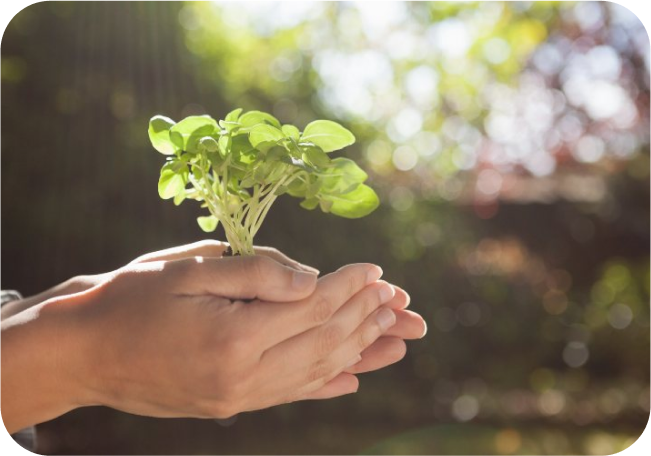
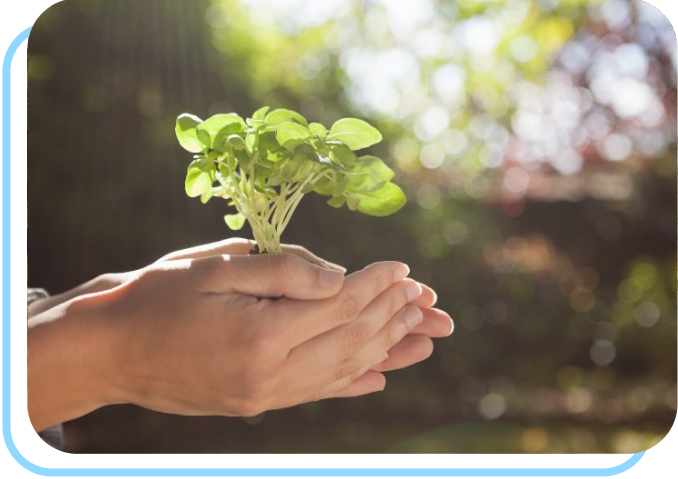
clean code and about-us completed

diff --git a/src/components/footer/Footer.js b/src/components/footer/Footer.js
@@ -14,7 +14,7 @@ function Footer() {
         <div className="text-white py-4">
           <div className="row">
           <div className="col-sm">
-          <img src={logo} style={{ width: "80px" }} />
+          <img src={logo} alt="logo" style={{ width: "80px" }} />
             </div>
             <div className="col-sm">
               <li className='font-weight-bold mb-2' a href="#" >ACERCA DE</li>
@@ -24,21 +24,22 @@ function Footer() {
             </div>
             <div className="col-sm">
               <li className='font-weight-bold mb-2'>INFORMACIÓN</li>
-              <a href="preguntas"><li>Preguntas frecuentes</li></a>
+              <a href="/preguntas-frecuentes"><li>Preguntas frecuentes</li></a>
               <a href="sitio"><li>¿Dónde encontrarnos? </li></a>
               <a href="contacto"><li>Contacto </li></a>
               <a href="comprar"><li>¿Cómo comprar? </li></a>
             </div>
             <div className="col-sm">
               <li className='font-weight-bold mb-2'>MEDIOS DE PAGO</li>
-              <img src={bancolombia} style={{ width: "130px", marginLeft: "10px"}} />
-              <img src={daviplata} style={{ width: "140px", marginTop: '10px' , marginLeft: "10px"}} />
-              <img src={mercado} style={{ width: "140px", marginTop: '10px' }} />
+              <img src={bancolombia} alt= "bancolombia" style={{ width: "130px", marginLeft: "10px"}} />
+              <img src={daviplata} alt= "daviplata" style={{ width: "140px", marginTop: '10px' , marginLeft: "10px"}} />
+              <img src={mercado} alt= "mercadop" style={{ width: "140px", marginTop: '10px' }} />
             </div>
             <div className="col-sm">
               <li className='font-weight-bold mb-2'>SIGUENOS</li>
-              <a href="facebook" className="bi-facebook" style={{ color: "blue", fontSize: "48px" }}></a>
-              <a href="instagram"><li><img src={insta} style={{ width: "50px" }} /></li></a>
+              <a href="https://www.facebook.com/dacris.co" className="bi-facebook" style={{ color: "#3b5998", fontSize: "40px"}}> </a>
+              <a href="https://www.instagram.com/dacris.co/?hl=es-la"><li><img src={insta} alt= "instagram" style={{ width: "40px" }} /> </li></a>
+              <a href="https://api.whatsapp.com/message/SMCSSCHIC7END1?autoload=1&app_absent=0" className="bi-whatsapp" style={{ color: "#00722e", fontSize: "35px" }}> </a>
             </div>
           </div>
         </div>

diff --git a/src/pages/aboutus/about-us.jsx b/src/pages/aboutus/about-us.jsx
@@ -1,8 +1,7 @@
 import React, { useEffect } from "react";
-import ReactDOM from 'react-dom';
 import '../aboutus/about-us.css'
-import photoA from "../../assets/1erafoto.png"
-import photoB from "../../assets/2dafoto.png"
+import photoA from "../../assets/photoA.png"
+import photoB from "../../assets/photoB.png"
 import photoC from "../../assets/photoC.png"
 import wp from "../../assets/wpSVG.svg"
 import insta from "../../assets/instaSVG.svg"
@@ -71,17 +70,17 @@ function AboutUs() {
                     <div className="red">
                         <img src={wp} alt="Whatsapp ICON"></img>
                         <p>Via Whatsapp</p>
-                        <a href="#">+57 318 888 0343</a>
+                        <a href="https://api.whatsapp.com/message/SMCSSCHIC7END1?autoload=1&app_absent=0">+57 318 888 0343</a>
                     </div>
                     <div className="red">
                         <img src={insta} alt="Instagram ICON"></img>
                         <p>Vía Instagram</p>
-                        <a href="#">@dacris.co</a>
+                        <a href="https://www.instagram.com/dacris.co/?hl=es-la">@dacris.co</a>
                     </div>
                     <div className="red">
                         <img src={fb} alt="Facebook ICON"></img>
                         <p>Vía Facebook</p>
-                        <a href="#">Dacris - Tu estilo a la moda</a>
+                        <a href="https://www.facebook.com/dacris.co">Dacris - Tu estilo a la moda</a>
                     </div>
                 </div>
 

diff --git a/src/pages/aboutus/about-us.css b/src/pages/aboutus/about-us.css
@@ -78,17 +78,6 @@
         width: 500px;
 }
 
-
-.aboutus .container_info .info_image img{
-        width: 500px;
-        animation: fadeIn 5s;
-        -webkit-animation: fadeIn 5s;
-        -moz-animation: fadeIn 5s;
-        -o-animation: fadeIn 5s;
-        -ms-animation: fadeIn 5s;
-}
-
-
 .aboutus .aboutus_contactanos  {
         display: flex;
         flex-direction: column;
@@ -136,11 +125,11 @@
 
 @media screen and (min-width: 1280px){
         .aboutus .container_info .info_image{
-                width: 380px;
+                width: 450px;
         }
         
         .aboutus .container_info .info_image img{
-                width: 380px;
+                width: 450px;
         }
         .aboutus .container_info .info_text h1{
                 font-size: 40px;
@@ -165,11 +154,11 @@
                 font-size: 60px;
         }
         .aboutus .container_info .info_image{
-                width: 400px;
+                width: 500px;
         }
         
         .aboutus .container_info .info_image img{
-                width: 400px;
+                width: 500px;
         }
         .aboutus .container_info:nth-child(2){
                 flex-direction: row-reverse !important;

diff --git a/src/App.js b/src/App.js
@@ -1,8 +1,8 @@
 import React from "react";
 import {BrowserRouter as Router, Routes, Route} from 'react-router-dom';
 import {Home, Login} from "./pages/index"
-import { navbar, socialMedia} from './components';
-import ButtonsNext from "./components/buttonNext/ButtonsNext";
+//import { navbar, socialMedia} from './components';
+//import ButtonsNext from "./components/buttonNext/ButtonsNext";
 import AboutUs from "./pages/aboutus/about-us";
 import './app.css'
 
@@ -10,14 +10,15 @@ import './app.css'
 function App() {
   return (
     <div className="App">
-      {/*<Router>
+      {
+        <Router>
         <Routes>
           <Route path='/' element={<Home/>}/>
           <Route path='/aboutus' element={<AboutUs/>}/>
           <Route path='/login' element={<Login/>}/>
         </Routes>
-      </Router>*/}
-      <AboutUs />
+      </Router>
+      }
       </div>
 
   );

diff --git a/src/components/NavBar.js b/src/components/NavBar.js
@@ -7,7 +7,7 @@ function NavBar() {
     return (
         <Navbar className= "font" fixed="top" style={{ backgroundColor: "white", boxShadow: "5px 5px 3px rgba(46, 46, 46, 0.2)" }} expand="lg">
             <Container fluid>
-                <Navbar.Brand href="/"><img src={logo} style={{ width: "50px"}} /></Navbar.Brand>
+                <Navbar.Brand href="/"><img src={logo} alt= "logo" style={{ width: "50px"}} /></Navbar.Brand>
                 <Navbar.Toggle aria-controls="navbarScroll" />
                 <Navbar.Collapse id="navbarScroll" className="justify-content-end">
                     <Nav 

diff --git a/src/components/footer/footer.css b/src/components/footer/footer.css
@@ -12,8 +12,7 @@
     align-content: flex-start;
 }
 
-.footerR a, li, ul{
+.footerR a, a span, li, ul{
     text-decoration: none;
     list-style-type: none;
-
 }
